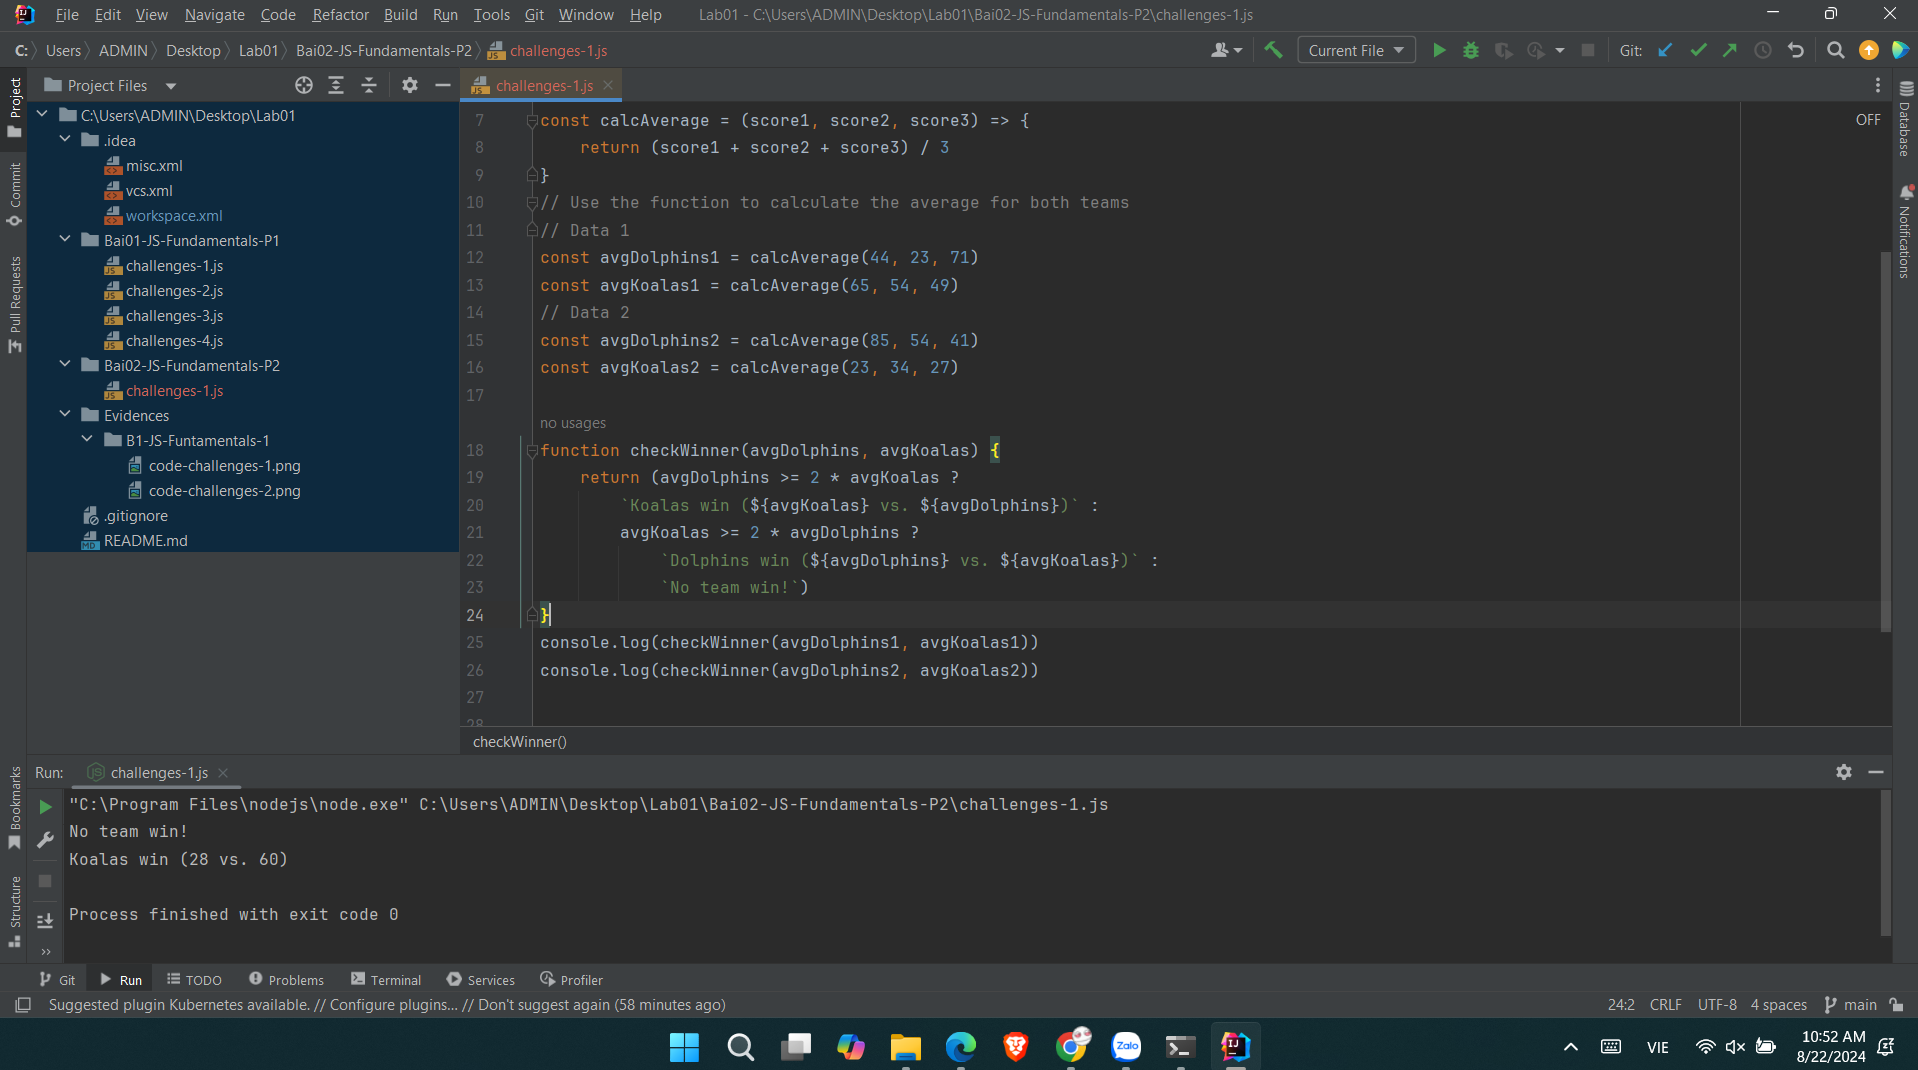
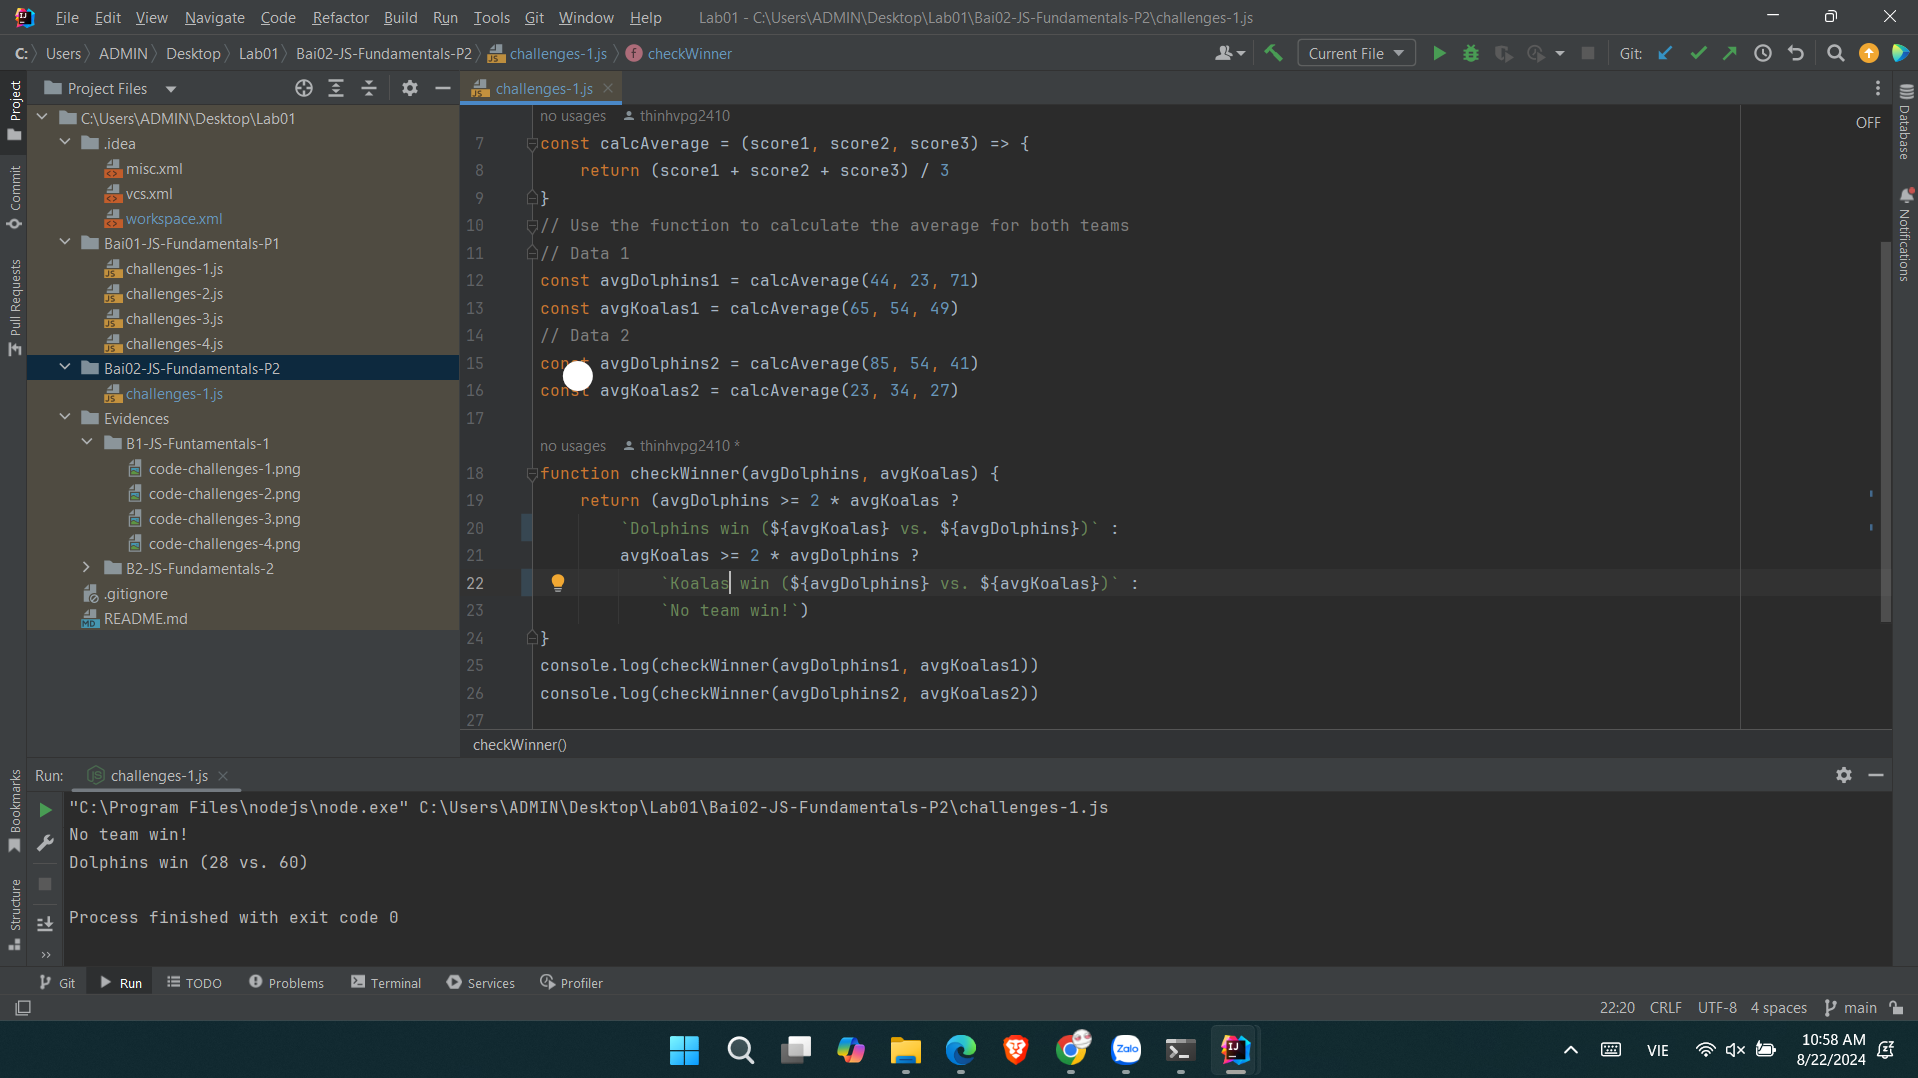
FIX WK01 - JSFundamentals 2 - codechallenges 1: fix wrong return value

diff --git a/Bai02-JS-Fundamentals-P2/challenges-1.js b/Bai02-JS-Fundamentals-P2/challenges-1.js
@@ -17,9 +17,9 @@ const avgKoalas2 = calcAverage(23, 34, 27)
 
 function checkWinner(avgDolphins, avgKoalas) {
     return (avgDolphins >= 2 * avgKoalas ?
-        `Koalas win (${avgKoalas} vs. ${avgDolphins})` :
+        `Dolphins win (${avgKoalas} vs. ${avgDolphins})` :
         avgKoalas >= 2 * avgDolphins ?
-            `Dolphins win (${avgDolphins} vs. ${avgKoalas})` :
+            `Koalas win (${avgDolphins} vs. ${avgKoalas})` :
             `No team win!`)
 }
 console.log(checkWinner(avgDolphins1, avgKoalas1))
